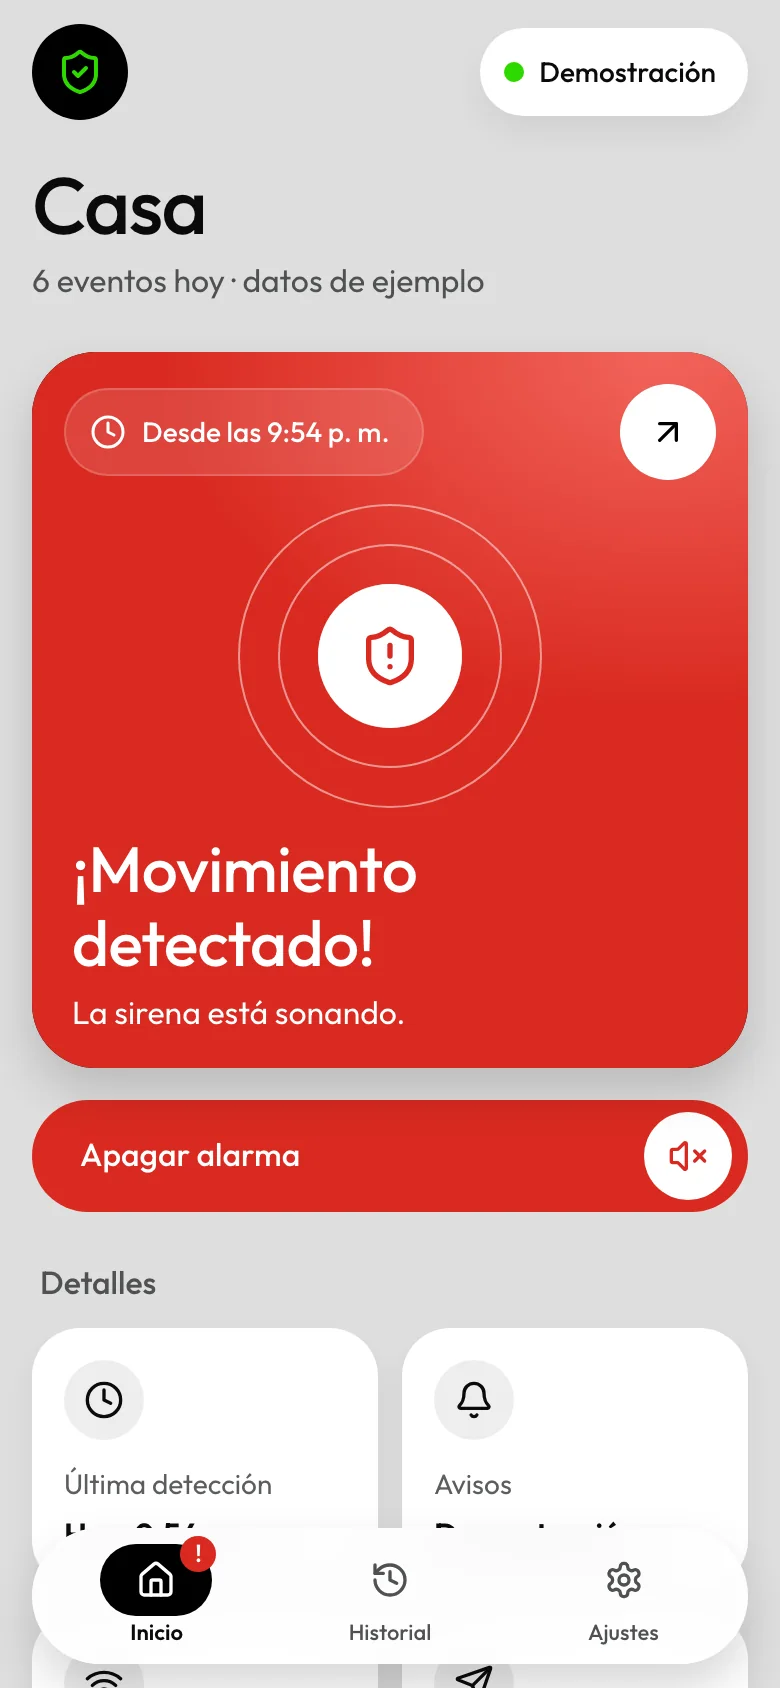
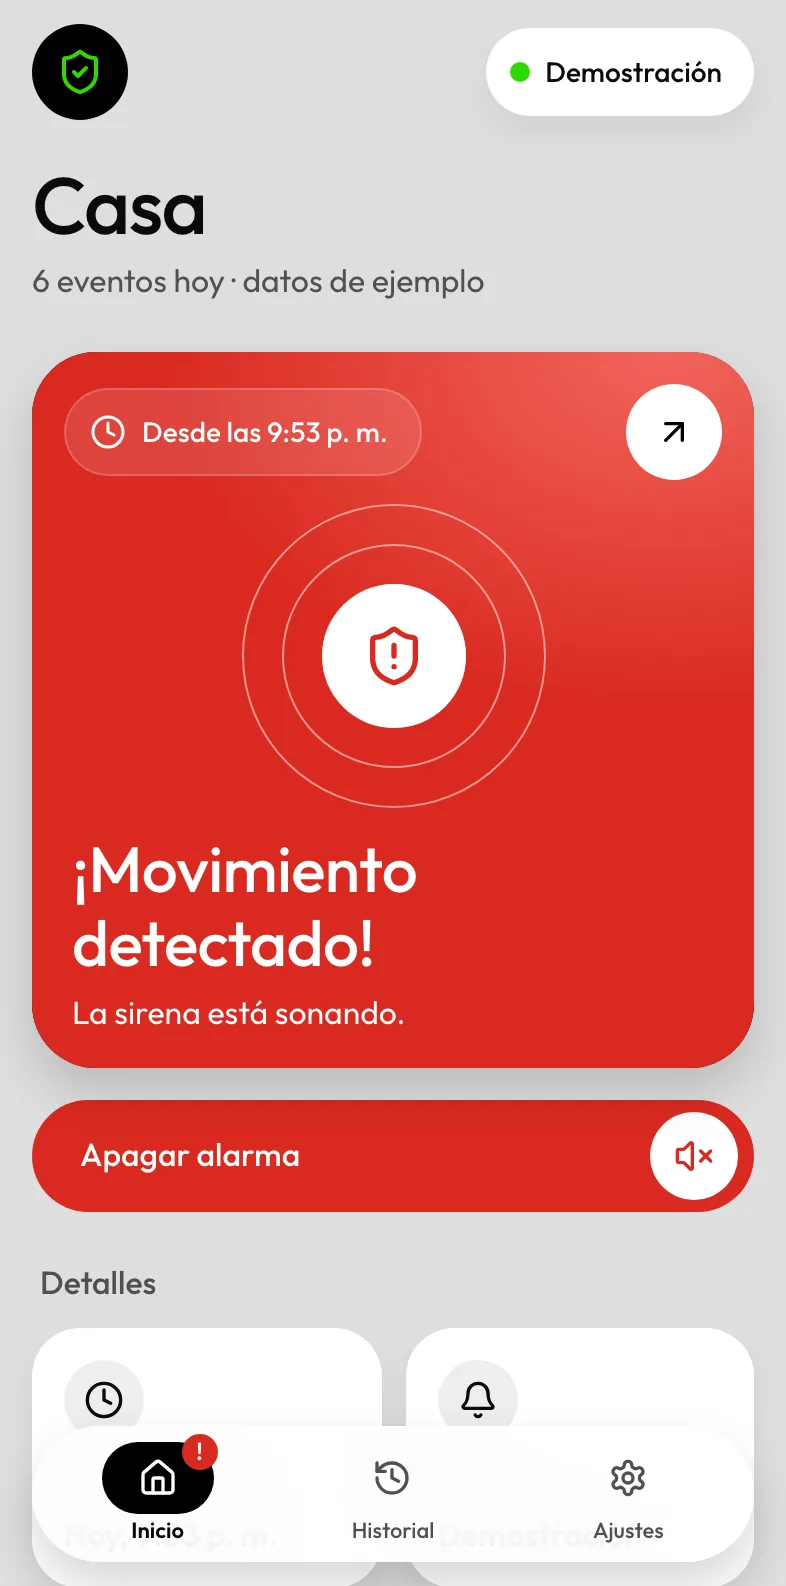
Landing: el teléfono con la proporción de un iPhone de verdad (capturas nuevas a tamaño de pantalla)

diff --git a/index.html b/index.html
@@ -18,7 +18,7 @@
 <link rel="apple-touch-icon" href="apple-touch-icon.png">
 <link rel="preload" href="fuentes/outfit.woff2" as="font" type="font/woff2" crossorigin>
 <link rel="preload" href="fuentes/instrument-serif-italic.woff2" as="font" type="font/woff2" crossorigin>
-<link rel="stylesheet" href="estilos.css?v=6">
+<link rel="stylesheet" href="estilos.css?v=7">
 <script>document.documentElement.classList.add('js')</script>
 </head>
 <body>
@@ -76,9 +76,9 @@
         <div class="radar" aria-hidden="true"><span></span><span></span><span></span><span class="onda"></span></div>
         <div class="telefono" id="telefono-heroe">
           <div class="pantalla">
-            <img class="activa" data-p="vigilando" src="capturas/vigilando-claro.webp" alt="La app en estado Vigilando, con el radar verde" width="390" height="844">
-            <img data-p="alarma" src="capturas/alarma-claro.webp" alt="La app en rojo: ¡Movimiento detectado! La sirena está sonando" width="390" height="844" loading="lazy">
-            <img data-p="desarmada" src="capturas/desarmada-claro.webp" alt="La app con la alarma desarmada" width="390" height="844" loading="lazy">
+            <img class="activa" data-p="vigilando" src="capturas/vigilando-claro.webp" alt="La app en estado Vigilando, con el radar verde" width="393" height="793">
+            <img data-p="alarma" src="capturas/alarma-claro.webp" alt="La app en rojo: ¡Movimiento detectado! La sirena está sonando" width="393" height="793" loading="lazy">
+            <img data-p="desarmada" src="capturas/desarmada-claro.webp" alt="La app con la alarma desarmada" width="393" height="793" loading="lazy">
           </div>
         </div>
         <div class="aviso" id="aviso-heroe" role="presentation">
@@ -139,12 +139,12 @@
       <div class="recorrido">
         <div class="recorrido-fijo" aria-hidden="true">
           <div class="telefono"><div class="pantalla" id="pantalla-recorrido">
-            <img class="activa" data-p="desarmada" src="capturas/desarmada-claro.webp" alt="" width="390" height="844">
-            <img data-p="armando" src="capturas/armando-claro.webp" alt="" width="390" height="844" loading="lazy">
-            <img data-p="vigilando" src="capturas/vigilando-claro.webp" alt="" width="390" height="844" loading="lazy">
-            <img data-p="alarma" src="capturas/alarma-claro.webp" alt="" width="390" height="844" loading="lazy">
-            <img data-p="historial" src="capturas/historial-claro.webp" alt="" width="390" height="844" loading="lazy">
-            <img data-p="ajustes" src="capturas/ajustes-claro.webp" alt="" width="390" height="844" loading="lazy">
+            <img class="activa" data-p="desarmada" src="capturas/desarmada-claro.webp" alt="" width="393" height="793">
+            <img data-p="armando" src="capturas/armando-claro.webp" alt="" width="393" height="793" loading="lazy">
+            <img data-p="vigilando" src="capturas/vigilando-claro.webp" alt="" width="393" height="793" loading="lazy">
+            <img data-p="alarma" src="capturas/alarma-claro.webp" alt="" width="393" height="793" loading="lazy">
+            <img data-p="historial" src="capturas/historial-claro.webp" alt="" width="393" height="793" loading="lazy">
+            <img data-p="ajustes" src="capturas/ajustes-claro.webp" alt="" width="393" height="793" loading="lazy">
           </div></div>
         </div>
         <div>
@@ -152,37 +152,37 @@
             <span class="momento-chip"><span class="punto gris"></span>Desarmada</span>
             <h3>Todo en una pantalla</h3>
             <p>Ves cómo está tu alarma y la armas con un solo botón. También puedes probar la sirena un segundo.</p>
-            <div class="telefono"><div class="pantalla"><img src="capturas/desarmada-claro.webp" alt="Pantalla de inicio con la alarma desarmada y el botón Armar alarma" width="390" height="844" loading="lazy"></div></div>
+            <div class="telefono"><div class="pantalla"><img src="capturas/desarmada-claro.webp" alt="Pantalla de inicio con la alarma desarmada y el botón Armar alarma" width="393" height="793" loading="lazy"></div></div>
           </article>
           <article class="momento" data-p="armando">
             <span class="momento-chip"><span class="punto"></span>Armándose</span>
             <h3>10 segundos para salir</h3>
             <p>Al armarla cuenta hacia atrás, para que salgas tranquilo sin que suene.</p>
-            <div class="telefono"><div class="pantalla"><img src="capturas/armando-claro.webp" alt="Cuenta regresiva de la alarma armándose" width="390" height="844" loading="lazy"></div></div>
+            <div class="telefono"><div class="pantalla"><img src="capturas/armando-claro.webp" alt="Cuenta regresiva de la alarma armándose" width="393" height="793" loading="lazy"></div></div>
           </article>
           <article class="momento" data-p="vigilando">
             <span class="momento-chip"><span class="punto"></span>Vigilando</span>
             <h3>El radar verde te dice que está cuidando</h3>
             <p>Desde cualquier lugar ves si está vigilando, la última detección y la señal WiFi de la alarma.</p>
-            <div class="telefono"><div class="pantalla"><img src="capturas/vigilando-claro.webp" alt="La app vigilando, con el radar verde" width="390" height="844" loading="lazy"></div></div>
+            <div class="telefono"><div class="pantalla"><img src="capturas/vigilando-claro.webp" alt="La app vigilando, con el radar verde" width="393" height="793" loading="lazy"></div></div>
           </article>
           <article class="momento" data-p="alarma">
             <span class="momento-chip"><span class="punto rojo"></span>¡Movimiento!</span>
             <h3>Si alguien entra, no hay duda</h3>
             <p>La pantalla se pone roja, suena la sirena y te llega el aviso. La apagas desde aquí mismo.</p>
-            <div class="telefono"><div class="pantalla"><img src="capturas/alarma-claro.webp" alt="Pantalla roja de movimiento detectado con el botón Apagar alarma" width="390" height="844" loading="lazy"></div></div>
+            <div class="telefono"><div class="pantalla"><img src="capturas/alarma-claro.webp" alt="Pantalla roja de movimiento detectado con el botón Apagar alarma" width="393" height="793" loading="lazy"></div></div>
           </article>
           <article class="momento" data-p="historial">
             <span class="momento-chip"><span class="punto gris"></span>Historial</span>
             <h3>Sabes qué pasó y a qué hora</h3>
             <p>Los últimos 15 eventos, ordenados por día: cuándo se armó, cuándo se desarmó y cuándo vio a alguien.</p>
-            <div class="telefono"><div class="pantalla"><img src="capturas/historial-claro.webp" alt="Historial de eventos por día" width="390" height="844" loading="lazy"></div></div>
+            <div class="telefono"><div class="pantalla"><img src="capturas/historial-claro.webp" alt="Historial de eventos por día" width="393" height="793" loading="lazy"></div></div>
           </article>
           <article class="momento" data-p="ajustes">
             <span class="momento-chip"><span class="punto gris"></span>Ajustes</span>
             <h3>A la medida de tu casa</h3>
             <p>Elige qué tan sensible es el sensor, activa los avisos en tu celular o por Telegram y ponle nombre a tu alarma.</p>
-            <div class="telefono"><div class="pantalla"><img src="capturas/ajustes-claro.webp" alt="Ajustes: nombre, conexión, avisos y sensibilidad del sensor" width="390" height="844" loading="lazy"></div></div>
+            <div class="telefono"><div class="pantalla"><img src="capturas/ajustes-claro.webp" alt="Ajustes: nombre, conexión, avisos y sensibilidad del sensor" width="393" height="793" loading="lazy"></div></div>
           </article>
         </div>
       </div>
@@ -341,6 +341,6 @@
 </main>
 
 <script src="vendor/qrcode.min.js" defer></script>
-<script src="landing.js?v=6" defer></script>
+<script src="landing.js?v=7" defer></script>
 </body>
 </html>

diff --git a/estilos.css b/estilos.css
@@ -95,13 +95,13 @@ a { color: inherit; }
 .escena.alarma .radar .onda { border-color: rgba(242, 100, 91, .85); animation-duration: 1.1s; }
 .escena.alarma .resplandor { opacity: 1; }
 .resplandor { position: absolute; width: 520px; height: 520px; border-radius: 50%; background: radial-gradient(circle, rgba(217, 42, 33, .45), transparent 65%); opacity: 0; transition: opacity .5s; filter: blur(10px); }
-/* marco: 11 px de borde + la pantalla de la app (390×844) + una franja de 44 para la hora y la isla */
-.telefono { position: relative; width: min(300px, 74vw); aspect-ratio: 412 / 910; border-radius: 50px; padding: 11px; background: #e9e9e9;
+/* proporción de un iPhone: 11 px de marco + pantalla de 393×852 (franja de 59 para la hora y la isla + la app de 393×793) */
+.telefono { position: relative; width: min(320px, 78vw); aspect-ratio: 415 / 874; border-radius: 50px; padding: 11px; background: #e9e9e9;
   box-shadow: 0 0 0 1.5px #3a3a3a, 0 40px 90px rgba(0, 0, 0, .6), inset 0 0 0 2px #000; transform-style: preserve-3d; transition: transform .8s var(--sale); }
 .telefono::after { content: ""; position: absolute; top: 22px; left: 50%; width: 88px; height: 26px; margin-left: -44px; border-radius: var(--pildora); background: #000; z-index: 3; }
 .pantalla { position: relative; height: 100%; border-radius: 40px; overflow: hidden; background: #dedede; }
 .pantalla::before { content: "9:54"; position: absolute; z-index: 2; top: 14px; left: 11%; font: 600 14px/20px var(--letra); color: #0a0a0a; letter-spacing: .01em; }
-.pantalla img { position: absolute; inset: auto 0 0 0; width: 100%; height: auto; aspect-ratio: 390 / 844; opacity: 0; transition: opacity .45s ease, transform .6s var(--sale); transform: scale(1.02); }
+.pantalla img { position: absolute; inset: auto 0 0 0; width: 100%; height: auto; aspect-ratio: 393 / 793; opacity: 0; transition: opacity .45s ease, transform .6s var(--sale); transform: scale(1.02); }
 .pantalla img.activa { opacity: 1; transform: scale(1); }
 .escena.tiembla .telefono { animation: tiembla .12s linear 10; }
 @keyframes tiembla { 25% { translate: -2px 0; } 75% { translate: 2px 0; } }

diff --git a/landing.js b/landing.js
@@ -207,7 +207,7 @@
     const aviso = $('#aviso-heroe');
     const dedo = $('#dedo');
     // Dónde están los botones en las capturas (fracción del ancho y del alto de la captura)
-    const BOTON = { apagar: [0.88, 0.685], armar: [0.88, 0.762] };
+    const BOTON = { apagar: [0.875, 0.73], armar: [0.88, 0.813] };
     let enPantalla = true;
     new IntersectionObserver(([e]) => { enPantalla = e.isIntersecting; }).observe(escena);
 
